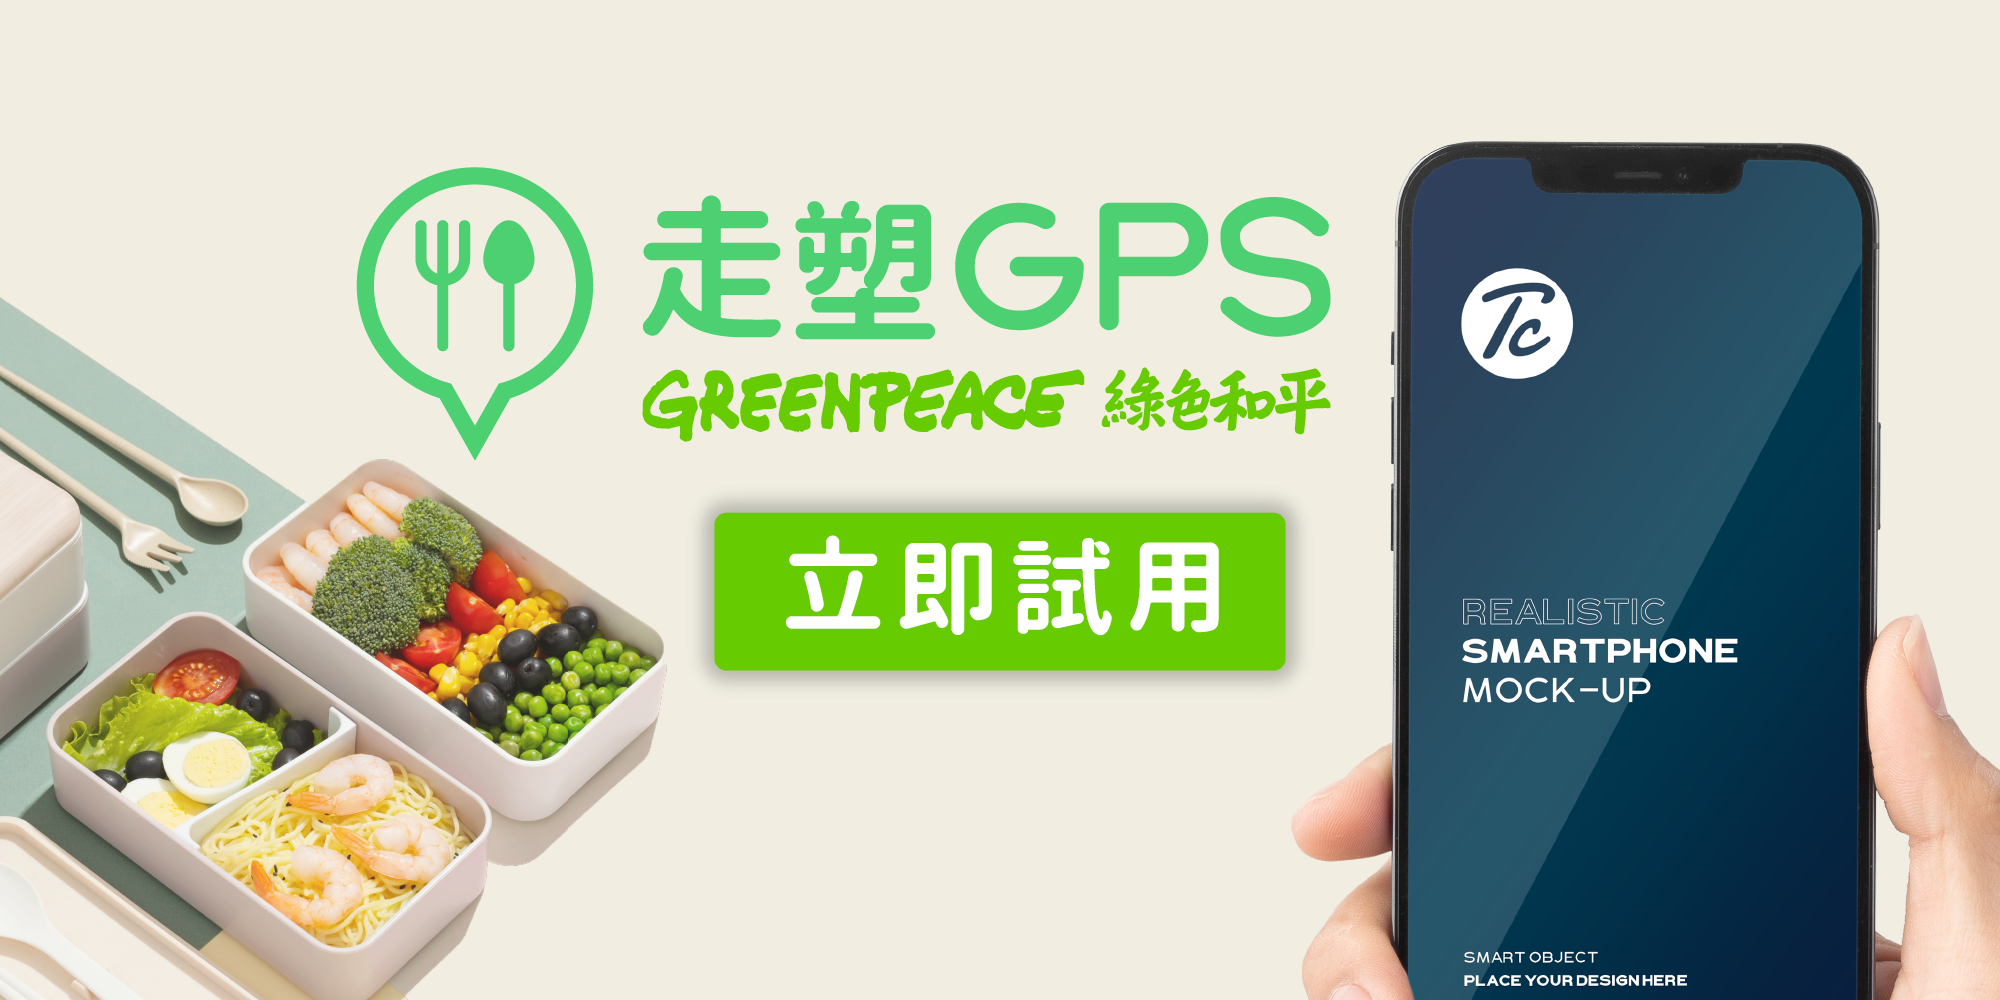
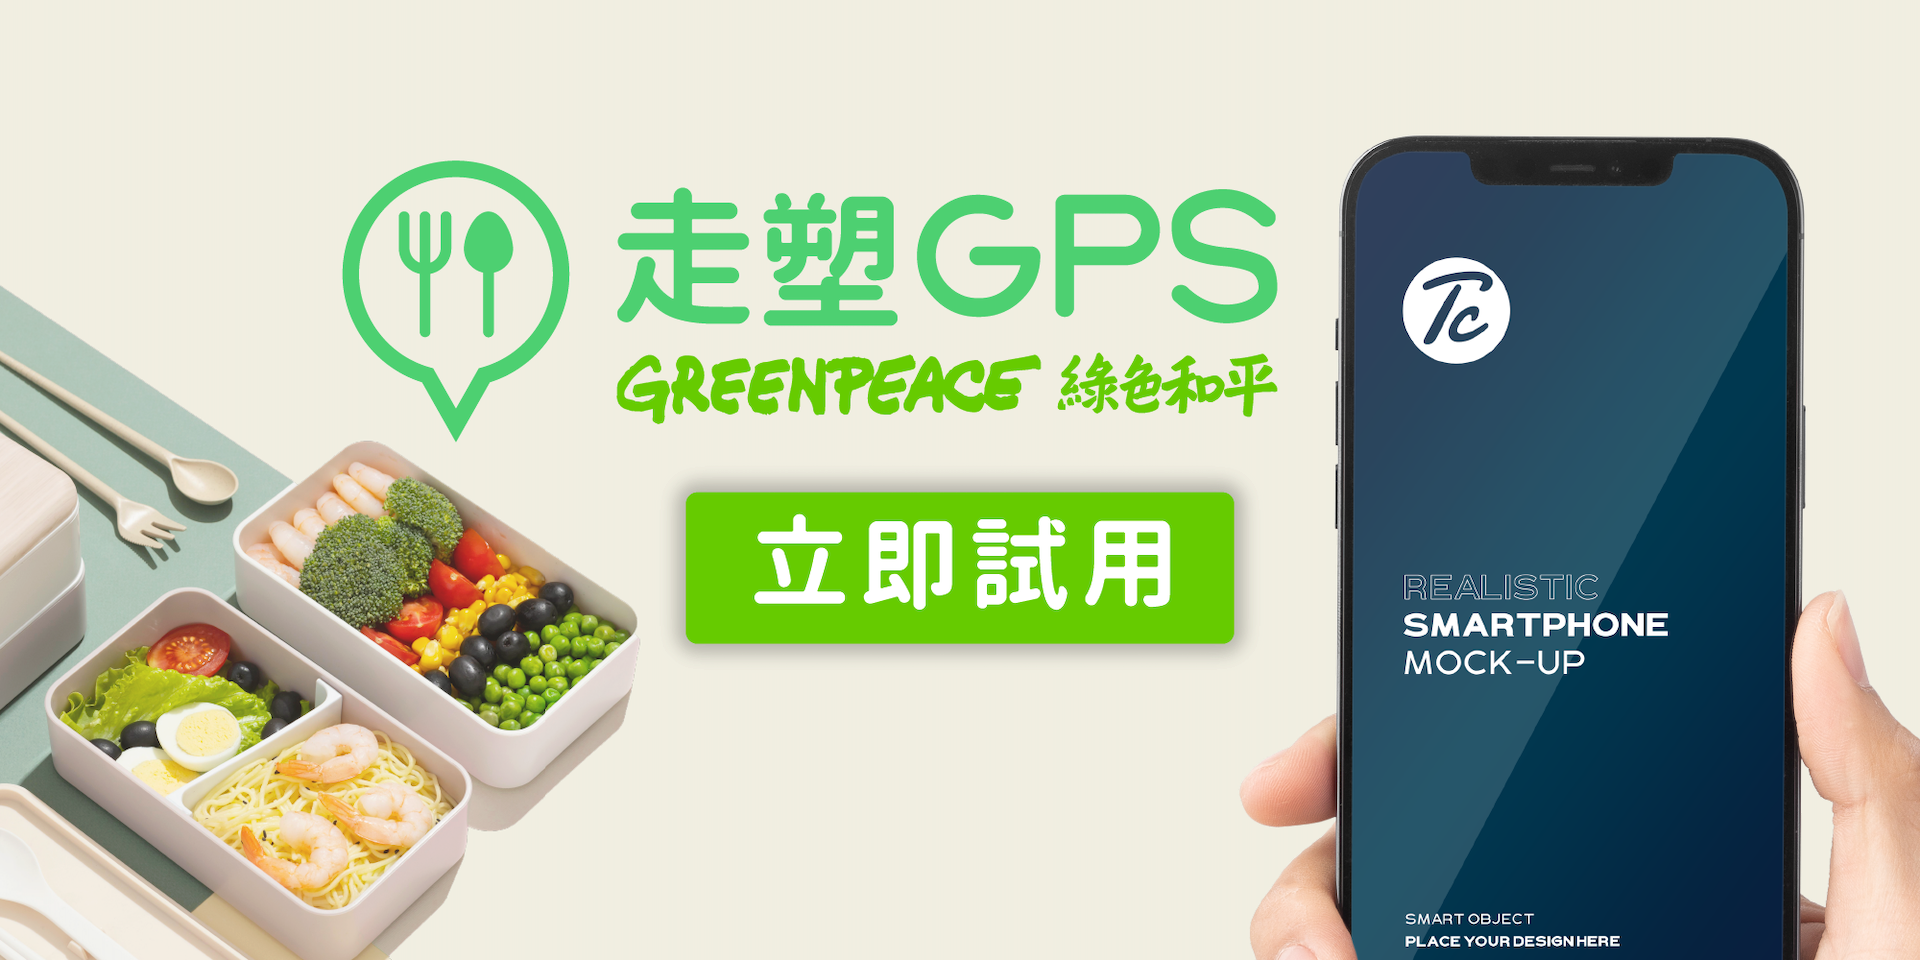
update

diff --git a/pages/tutorial.js b/pages/tutorial.js
@@ -11,12 +11,15 @@ import {
   Stack,
   SimpleGrid,
 } from '@chakra-ui/react';
-import { headingProps } from '@common/styles/components/contentStyle';
 import { CTAButton } from '@components/GPS/CTA/button';
 import { imageLoader } from 'common/utils';
 import { AiFillAndroid, AiFillApple } from 'react-icons/ai';
-
 import Image from 'next/image';
+
+import {
+  headingProps,
+  paragraphProps,
+} from '@common/styles/components/contentStyle';
 
 const maxWSize = 1200;
 
@@ -42,30 +45,32 @@ function Tutorial() {
       <Head>
         <title>走塑GPS 使用教學 - Greenpeace 綠色和平 | 香港</title>
       </Head>
-      <Box w={'100%'} minH="320px" pos={'relative'} overflow={'hidden'}>
+
+      <Box minH="300px" w={'100%'} pos={'relative'} overflow={'hidden'}>
         <Container maxW={`${maxWSize}px`} pos={`relative`} zIndex={2}>
-          <Box py={20} w={{ md: 'md', xl: 'xl' }}>
-            <Stack>
+          <Flex py={20} w={{ md: 'md', xl: 'xl' }} alignItems="center">
+            <Box p="4" bg="var(--gps-primary)">
               <Heading
                 {...headingProps}
+                mb="0"
                 color={'white'}
-                fontSize={{ base: '2xl', md: '4xl' }}
+                fontSize={{ base: '3xl', md: '5xl' }}
                 dangerouslySetInnerHTML={{
                   __html: '走塑GPS 使用教學',
                 }}
               />
-            </Stack>
-          </Box>
+            </Box>
+          </Flex>
         </Container>
         <Image
           loader={imageLoader}
-          src="/images/gps-banner.png"
+          src="/images/20220318_GPS-03.png"
           layout="fill"
           objectFit="cover"
           quality={100}
         />
-        {/** https://image-component.nextjs.gallery/background */}
       </Box>
+
       <Container maxW={`${maxWSize}px`} py={6}>
         <Flex
           flexDirection={{ base: 'column', md: 'row' }}
@@ -76,8 +81,8 @@ function Tutorial() {
           borderLeft="4px"
           borderColor="var(--gps-primary)"
         >
-          <Box py="6">
-            <Text textStyle={'subTitle'}>
+          <Box py="4">
+            <Text as="p" textStyle={'content'}>
               啟動WhatsApp「走塑GPS」後，發送任何訊息即可開始使用！
             </Text>
           </Box>
@@ -85,6 +90,7 @@ function Tutorial() {
             <CTAButton />
           </Box>
         </Flex>
+
         <Stack spacing="4" maxW="3xl" mx="auto" align="center">
           {/* Intro */}
           <Stack my="6">

diff --git a/pages/index.js b/pages/index.js
@@ -5,19 +5,18 @@ import {
   Container,
   Box,
   Text,
-  ListItem,
-  UnorderedList,
   AspectRatio,
   Stack,
   SimpleGrid,
   Flex,
   Center,
-  useMediaQuery,
+  Heading,
   Modal,
   ModalOverlay,
   ModalContent,
   ModalBody,
   ModalCloseButton,
+  useMediaQuery,
   useDisclosure,
 } from '@chakra-ui/react';
 
@@ -25,6 +24,11 @@ import Image from 'next/image';
 import { CTAButton } from '@components/GPS/CTA/button';
 import SwiperCarousel from '@components/Swiper';
 import { imageLoader } from 'common/utils';
+
+import {
+  headingProps,
+  paragraphProps,
+} from '@common/styles/components/contentStyle';
 
 import c1 from '../public/images/slider/20210508_SSPHunting_17.jpg';
 import c2 from '../public/images/slider/20210508_SSPHunting_5.jpg';
@@ -63,18 +67,28 @@ function Index() {
           綠色和平 | 香港
         </title>
       </Head>
-      {/* <HeroSection /> */}
+
+      <Box>
+        <Image
+          loader={imageLoader}
+          src={`/images/20220318_GPS-01.png`}
+          width="1920"
+          height="960"
+        />
+      </Box>
+
       <Container maxW={`${maxWSize}px`} py="6" px="4">
         <Stack spacing={{ base: '40px', md: '80px' }}>
+          {/* <Box>
+            <Image
+              loader={imageLoader}
+              src={`/images/svg/Plastic-free-GPS-banner-v2.svg`}
+              width="1400"
+              height="800"
+            />
+          </Box> */}
+
           <Box>
-            <Box>
-              <Image
-                loader={imageLoader}
-                src={`/images/svg/Plastic-free-GPS-banner-v2.svg`}
-                width="1400"
-                height="800"
-              />
-            </Box>
             <Stack
               spacing="6"
               flexDirection={{ base: 'column', lg: 'row' }}
@@ -298,11 +312,11 @@ function Index() {
             </Stack> */}
           </Stack>
 
-          <Stack spacing="4" maxW={'480px'} align="center" alignSelf={'center'}>
+          <Stack spacing="4" maxW={'680px'} align="center" alignSelf={'center'}>
             <CTAButton />
             <br />
-            <Text as="p" fontSize="xs">
-              **
+            <Text as="p" textStyle={'content'} textAlign="center">
+              *
               如有任何使用「走塑GPS」疑難，歡迎參閱常見問題或按此填寫表格聯絡我們。
             </Text>
             <br />

diff --git a/pages/faq.js b/pages/faq.js
@@ -17,9 +17,13 @@ import {
 } from '@chakra-ui/react';
 import { AiOutlineQuestionCircle } from 'react-icons/ai';
 
-import { headingProps } from '@common/styles/components/contentStyle';
 import { CTAButton } from '@components/GPS/CTA/button';
 import { imageLoader } from 'common/utils';
+
+import {
+  headingProps,
+  paragraphProps,
+} from '@common/styles/components/contentStyle';
 
 import Image from 'next/image';
 
@@ -59,29 +63,30 @@ function Faq() {
       <Head>
         <title>走塑GPS 常見問題 - Greenpeace 綠色和平 | 香港</title>
       </Head>
-      <Box w={'100%'} pos={'relative'} overflow={'hidden'}>
+
+      <Box minH="300px" w={'100%'} pos={'relative'} overflow={'hidden'}>
         <Container maxW={`${maxWSize}px`} pos={`relative`} zIndex={2}>
-          <Box py={20} w={{ md: 'md', xl: 'xl' }}>
-            <Box>
+          <Flex py={20} w={{ md: 'md', xl: 'xl' }} alignItems="center">
+            <Box p="4" bg="var(--gps-primary)">
               <Heading
                 {...headingProps}
+                mb="0"
                 color={'white'}
-                fontSize={{ base: '2xl', md: '4xl' }}
+                fontSize={{ base: '3xl', md: '5xl' }}
                 dangerouslySetInnerHTML={{
                   __html: '走塑GPS 常見問題',
                 }}
               />
             </Box>
-          </Box>
+          </Flex>
         </Container>
         <Image
           loader={imageLoader}
-          src="/images/gps-banner.png"
+          src="/images/20220318_GPS-03.png"
           layout="fill"
           objectFit="cover"
           quality={100}
         />
-        {/** https://image-component.nextjs.gallery/background */}
       </Box>
 
       <Container maxW={`${maxWSize}px`} py={6}>
@@ -94,8 +99,8 @@ function Faq() {
           borderLeft="4px"
           borderColor="var(--gps-primary)"
         >
-          <Box py="6">
-            <Text textStyle={'subTitle'}>
+          <Box py="4">
+            <Text as="p" textStyle={'content'}>
               啟動WhatsApp「走塑GPS」後，發送任何訊息即可開始使用！
             </Text>
           </Box>

diff --git a/components/Navbar/index.js b/components/Navbar/index.js
@@ -102,13 +102,9 @@ const DesktopNav = ({ href, currentPage }) => {
               fontSize={'md'}
               cursor={'pointer'}
               color={
-                currentPage === navItem.href ? 'var(--gps-primary)' : 'gray.700'
+                currentPage === navItem.href ? 'var(--gps-primary)' : 'gray.800'
               }
               fontWeight={currentPage === navItem.href ? 'bold' : 300}
-              _hover={{
-                textDecoration: 'none',
-                fontWeight: 'bold',
-              }}
               sx={{
                 ':focus:not(:focus-visible)': {
                   shadow: 'none',
@@ -128,7 +124,6 @@ const DesktopNav = ({ href, currentPage }) => {
           <Text
             bgColor="orange.500"
             fontSize={'md'}
-            fontWeight={700}
             px={4}
             py={2}
             color={'white'}
@@ -151,7 +146,7 @@ const MobileNav = ({ handleToggle, currentPage }) => {
       px="6"
       pt="6"
       pb="10"
-      w="100vw"
+      w="100%"
       display={{ md: 'none' }}
       borderBottom="1px"
       borderColor="gray.100"
@@ -172,7 +167,6 @@ const MobileNav = ({ handleToggle, currentPage }) => {
           <Text
             bgColor="orange.500"
             fontSize={'md'}
-            fontWeight={700}
             px={4}
             py={2}
             color={'white'}
@@ -201,7 +195,7 @@ const MobileNavItem = ({ handleToggle, label, href, currentPage }) => {
       >
         <Link href={href}>
           <Text
-            color={currentPage === href ? 'var(--gps-primary)' : 'gray.700'}
+            color={currentPage === href ? 'var(--gps-primary)' : 'gray.800'}
             fontWeight={currentPage === href ? 'bold' : 400}
           >
             {label}

diff --git a/pages/registration.js b/pages/registration.js
@@ -15,6 +15,10 @@ import { imageLoader } from 'common/utils';
 import * as formActions from 'store/actions/action-types/form-actions';
 import * as themeActions from 'store/actions/action-types/theme-actions';
 import Image from 'next/image';
+import {
+  headingProps,
+  paragraphProps,
+} from '@common/styles/components/contentStyle';
 
 const FixedCTA = dynamic(() => import('@components/GP/FixedCTA'));
 
@@ -84,7 +88,7 @@ function Index({ setFormContent, setTheme, themeData }) {
 
         <Image
           loader={imageLoader}
-          src="/images/gps-banner.png"
+          src="/images/20220318_GPS-03.png"
           layout="fill"
           objectFit="cover"
           quality={100}
@@ -128,8 +132,8 @@ Index.getLayout = (page) => <Wrapper>{page}</Wrapper>;
 
 export async function getStaticProps() {
   return {
-    props: {}
-  }
+    props: {},
+  };
 }
 
 const mapStateToProps = ({ status, theme, signup }) => {

diff --git a/components/GPS/HeroSection/Thankyou.js b/components/GPS/HeroSection/Thankyou.js
@@ -46,7 +46,7 @@ function Content({ signup }) {
           }}
         />
         <Text as="p" color={'white'} fontSize="md" fontWeight="bold">
-          ** WhatsApp對話將於1分鐘內顯示確認訊息。
+          * WhatsApp對話將於1分鐘內顯示確認訊息。
         </Text>
       </Box>
       <Box pos={'relative'}>
